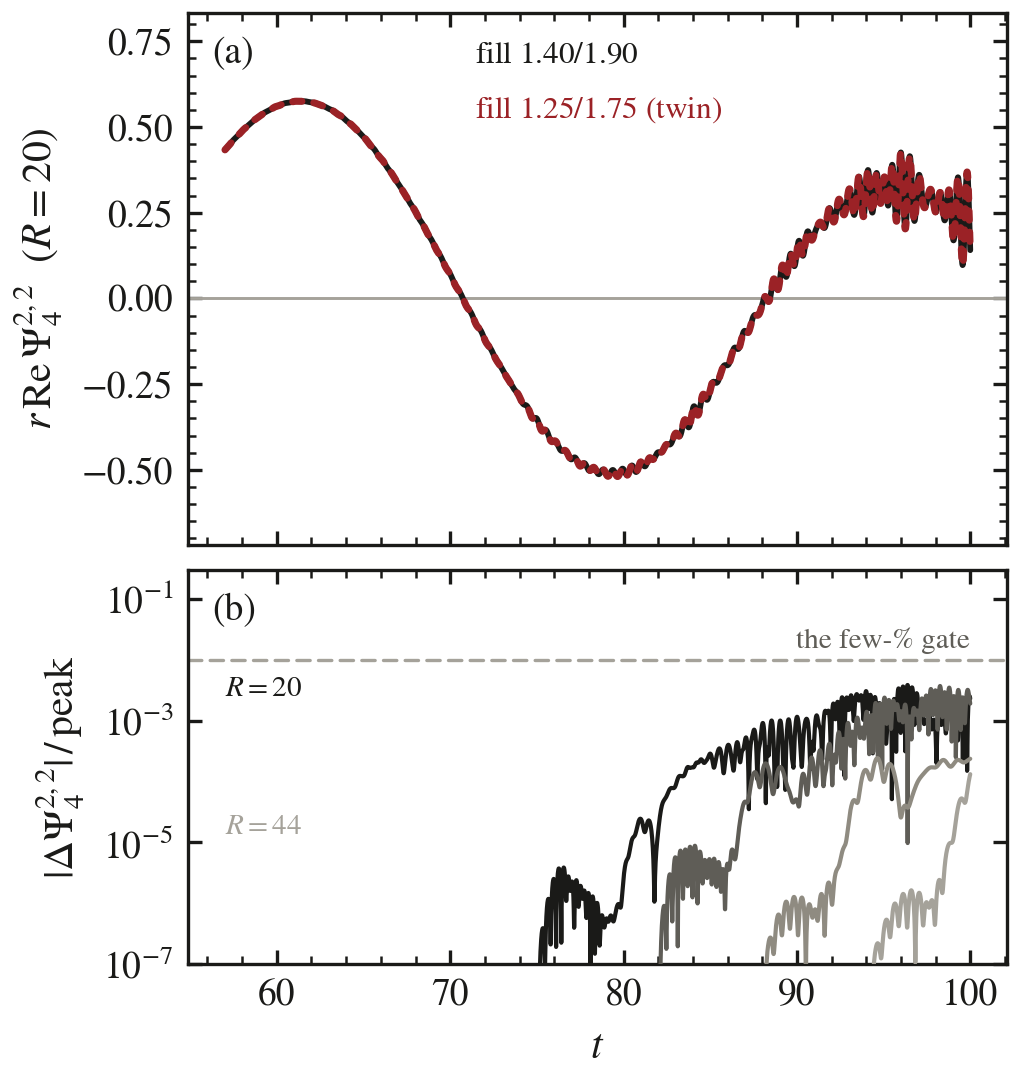
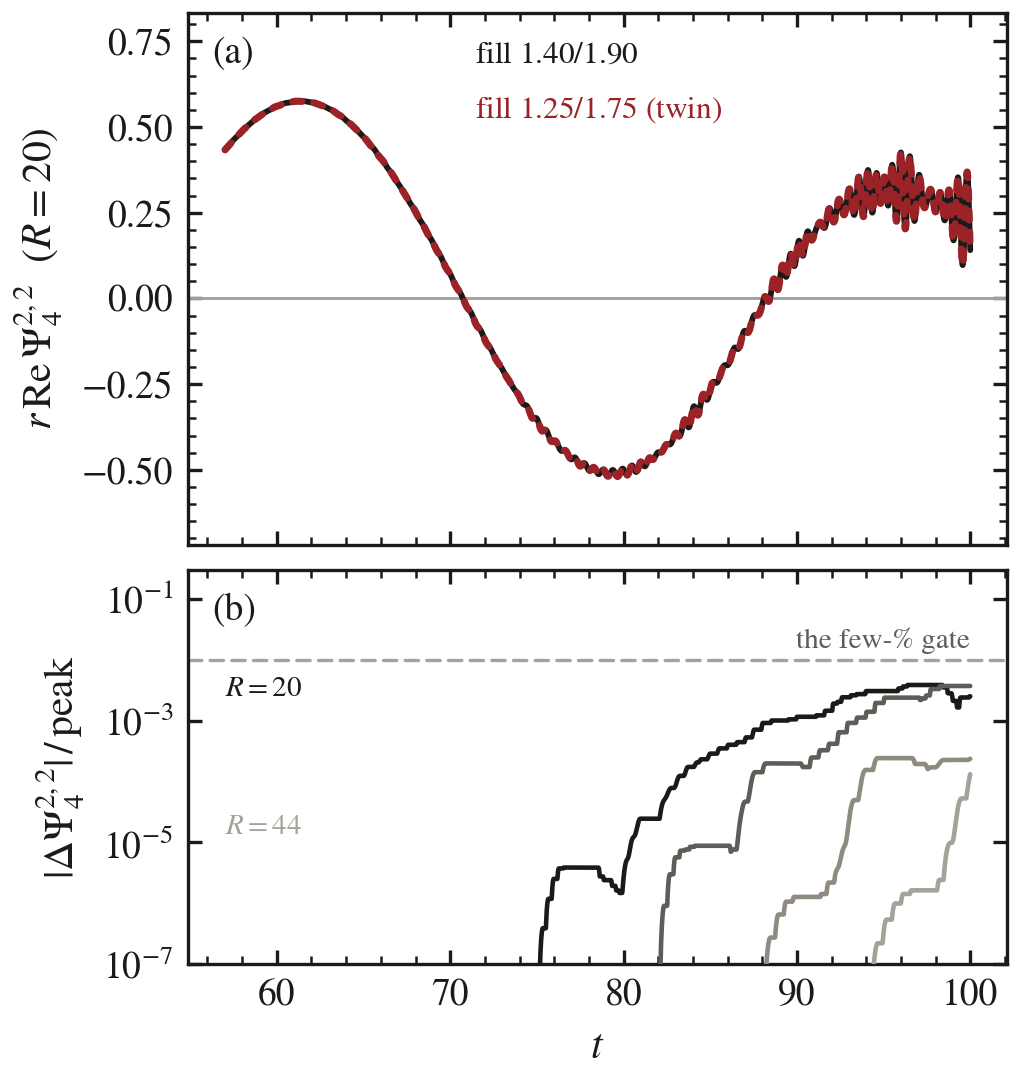
viz(merger): panel (b) draws the difference's envelope, not its comb -- four clean fronts on the causal clock

diff --git a/grteclyn-wrapper/src/grteclyn_wrapper/visualisation/wormhole_merger/plot_fill_insensitivity.py b/grteclyn-wrapper/src/grteclyn_wrapper/visualisation/wormhole_merger/plot_fill_insensitivity.py
@@ -99,11 +99,17 @@ def main(argv: list[str] | None = None) -> int:
              ha="left", va="top", fontsize=7.5, color=style.BURGUNDY)
 
     # ---- (b) what moving the window moved, sphere by sphere ---------------
+    # The raw |delta| of two oscillating signals combs down the log axis at
+    # every near-zero crossing; the ENVELOPE (rolling max over 2 units) is
+    # the quantity the gate is about, and it draws as one clean front per
+    # sphere arriving on the causal clock t = 57 + (R - 1.9).
+    w = max(1, int(round(2.0 / np.median(np.diff(t)))))
     for k, R in enumerate(RADII):
         da = np.abs(ya[R][:n][keep] - yb[R][:n][keep])
         ref = np.abs(ya[R][:n][keep]).max()
         frac = np.maximum(da / ref, 1e-12)
-        axB.plot(t, frac, color=RAMP[k], linewidth=1.0, zorder=3)
+        env = np.array([frac[max(0, i - w):i + 1].max() for i in range(len(frac))])
+        axB.plot(t, env, color=RAMP[k], linewidth=1.1, zorder=3)
         print(f"[fill-insensitivity] R = {R:g}: max |dPsi4|/peak = "
               f"{frac.max() * 100:.3f} %")
     axB.axhline(GATE, color=style.FAINT, linewidth=0.8,
